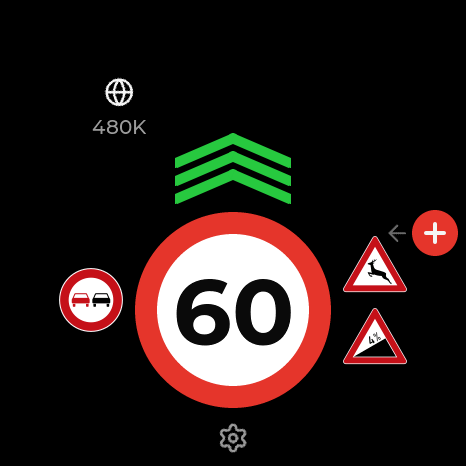
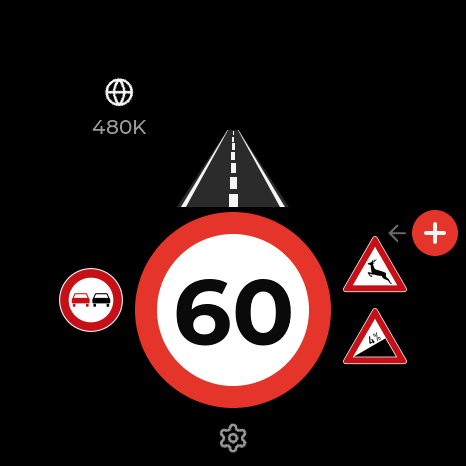
feat(ui): free-road picture replaces the green chevrons (Home + boot)
A straight road in perspective — dark-grey surface, white edge lines, a
dashed white centre line — now marks "clear ahead" on Home and is what
sweeps up the screen at power-on. New ui/widgets/road_view: drawn from
three concentric triangles (surface / white edge lines / surface, all from
one vanishing point, so no seams) plus one rectangle per dash, geometry
measured off the reference picture. Vector, so it is crisp at 112 px on
Home and 494 px in the boot sweep with no extra flash for a bitmap.

The wire/UiConfig flag names (directionArrows, bootAnimation) are
unchanged; only comments, docs and the test-app label were updated.
Chevrons widget removed; kClearGreen stays for the Melden lens and flashes.

Host suite 70 cases / 553 assertions green; firmware builds (image
0x1e2280, 37 % of the slot free). Not yet flashed — board was not on USB.

Changed region(s): [[0.3605, 0.2704, 0.6309, 0.4506]]

diff --git a/ui/widgets/road_view.cpp b/ui/widgets/road_view.cpp
@@ -1,0 +1,104 @@
+#include "ui/widgets/road_view.h"
+
+#include <algorithm>
+
+#include "ui/theme/tokens.h"
+#include "ui/widgets/widget_util.h"
+
+namespace ui {
+
+namespace {
+
+// Geometry, measured off the reference picture (115 x 80 units, the road's
+// bottom edge is the full width). Perspective: every edge is a ray from one
+// vanishing point `kApex` units above the top of the box, so the road, the edge
+// lines and the centre line are all concentric triangles that share the apex —
+// drawn as three stacked triangles, no seams. The box clips the tip off.
+constexpr int kBoxW   = 115;
+constexpr int kBoxH   = 80;
+constexpr int kApex10 = 96;      // vanishing point, 1/10 unit above the box top
+constexpr int kEdgeOuter = 930;  // permille of the bottom half-width: outer edge of the white edge line
+constexpr int kEdgeInner = 855;  //                                     inner edge of it
+
+// Centre-line dashes as {start, end} in 1/10 unit from the box top. They grow
+// toward the viewer; the last one runs off the bottom of the picture.
+struct Dash { int y0, y1; };
+constexpr Dash kDashes[] = {
+    {20, 60}, {80, 130}, {140, 210}, {230, 310}, {340, 450}, {490, 610}, {660, 800},
+};
+constexpr int kDashHalfPermille = 94;   // dash half-width as a share of the road's half-width there
+
+void tri(lv_layer_t* layer, uint32_t rgb, int ax, int ay, int bx, int by, int cx, int cy) {
+    lv_draw_triangle_dsc_t d;
+    lv_draw_triangle_dsc_init(&d);
+    d.bg_color = tok::col(rgb);
+    d.bg_opa = LV_OPA_COVER;
+    d.p[0].x = ax; d.p[0].y = ay;
+    d.p[1].x = bx; d.p[1].y = by;
+    d.p[2].x = cx; d.p[2].y = cy;
+    lv_draw_triangle(layer, &d);
+}
+
+}  // namespace
+
+int RoadView::height_for(int width) { return std::max(1, width * kBoxH / kBoxW); }
+
+RoadView::RoadView(lv_obj_t* parent, int width) : w_(width), h_(height_for(width)) {
+    root_ = make_layer(parent);
+    lv_obj_set_size(root_, w_, h_);
+    lv_obj_add_event_cb(root_, draw_cb, LV_EVENT_DRAW_MAIN, this);
+}
+
+void RoadView::set_visible(bool on) {
+    if (on) {
+        lv_obj_remove_flag(root_, LV_OBJ_FLAG_HIDDEN);
+    } else {
+        lv_obj_add_flag(root_, LV_OBJ_FLAG_HIDDEN);
+    }
+}
+
+void RoadView::draw_cb(lv_event_t* e) {
+    auto* self = static_cast<RoadView*>(lv_event_get_user_data(e));
+    lv_layer_t* layer = lv_event_get_layer(e);
+    lv_area_t box;
+    lv_obj_get_coords(lv_event_get_target_obj(e), &box);
+
+    const int w = self->w_;
+    const int h = self->h_;
+    const int cx = box.x1 + w / 2;
+    const int top = box.y1;
+    const int bot = box.y1 + h;               // bottom edge (exclusive)
+    const int apex_y = top - kApex10 * w / (kBoxW * 10);
+    const int half = w / 2;                   // bottom half-width
+
+    // Surface, white edge lines (outer triangle), then the surface again inside
+    // them — the box clips everything above `top`.
+    tri(layer, tok::kRoadSurface, cx, apex_y, cx - half, bot, cx + half, bot);
+    const int ho = half * kEdgeOuter / 1000;
+    tri(layer, tok::kRoadMark, cx, apex_y, cx - ho, bot, cx + ho, bot);
+    const int hi = half * kEdgeInner / 1000;
+    tri(layer, tok::kRoadSurface, cx, apex_y, cx - hi, bot, cx + hi, bot);
+
+    // Centre dashes: plain rectangles, each as wide as the road is at its middle.
+    for (const Dash& ds : kDashes) {
+        const int y0 = top + ds.y0 * w / (kBoxW * 10);
+        const int y1 = std::min(bot, top + ds.y1 * w / (kBoxW * 10));
+        if (y1 <= y0) continue;
+        const int mid10 = (ds.y0 + ds.y1) / 2;
+        const int road_hw = half * (mid10 + kApex10) / (kBoxH * 10 + kApex10);
+        const int dw = std::max(1, 2 * road_hw * kDashHalfPermille / 1000);
+        lv_area_t a;
+        a.x1 = cx - dw / 2;
+        a.x2 = a.x1 + dw - 1;
+        a.y1 = y0;
+        a.y2 = y1 - 1;
+        lv_draw_rect_dsc_t r;
+        lv_draw_rect_dsc_init(&r);
+        r.bg_color = tok::col(tok::kRoadMark);
+        r.bg_opa = LV_OPA_COVER;
+        r.radius = 0;
+        lv_draw_rect(layer, &r, &a);
+    }
+}
+
+}  // namespace ui

diff --git a/ui/screens/home_screen.cpp b/ui/screens/home_screen.cpp
@@ -2,7 +2,7 @@
 
 #include "ui/assets/icons/icons.h"
 #include "ui/theme/tokens.h"
-#include "ui/widgets/chevrons.h"
+#include "ui/widgets/road_view.h"
 #include "ui/widgets/plus_button.h"
 #include "ui/widgets/sign_column.h"
 #include "ui/widgets/speed_sign.h"
@@ -12,6 +12,7 @@
 namespace ui {
 
 namespace {
+constexpr int kRoadW = 112;    // "free road" picture, width at its bottom edge
 constexpr int kSideSign = 64;   // left/right context signs, same size both sides
 }
 
@@ -21,7 +22,7 @@ HomeScreen::HomeScreen(lv_obj_t* parent) {
     set_bg(root_, tok::kBg);
 
     badge_ = std::make_unique<StatusBadge>(root_);
-    chevrons_ = std::make_unique<Chevrons>(root_, 116, 60, 3);
+    road_ = std::make_unique<RoadView>(root_, kRoadW);
     sign_ = std::make_unique<SpeedSign>(root_, 196);
     left_ = std::make_unique<SignColumn>(root_, SignColumn::Side::Left, kSideSign, 3);
     right_ = std::make_unique<SignColumn>(root_, SignColumn::Side::Right, kSideSign, 3);
@@ -52,7 +53,7 @@ HomeScreen::HomeScreen(lv_obj_t* parent) {
     lv_obj_center(gimg);
 
     place_center(badge_->root(), 112, 92);
-    place_center(chevrons_->root(), 233, 168);
+    place_center(road_->root(), 233, 168);
     place_center(sign_->root(), 233, 310);
     plus_->set_center(435, 233);
     place_center(gear_, 233, 438);
@@ -83,7 +84,7 @@ void HomeScreen::set_state(const core::DisplayState& s) {
     badge_->set(s.internetConnected, ui_.peerCount ? s.networkPeers : 0);
 
     const bool hazard = s.hazardActive;
-    chevrons_->set_visible(s.directionArrows && !hazard && ui_.directionArrows);
+    road_->set_visible(s.directionArrows && !hazard && ui_.directionArrows);
 
     std::optional<int> shown = s.speedLimit;
     if (hazard && s.hazardSpeedLimit) shown = s.hazardSpeedLimit;
@@ -101,7 +102,7 @@ void HomeScreen::set_state(const core::DisplayState& s) {
     right_->set(s.rightSigns);
 
     place_center(sign_->root(), 233, 310);
-    place_center(chevrons_->root(), 233, shown ? 168 : 240);
+    place_center(road_->root(), 233, shown ? 168 : 240);
     // Columns flank the sign, vertically centred on it and pulled well inside the
     // round bezel.
     place_center(left_->root(), 91, 300);

diff --git a/tools/fake_app.py b/tools/fake_app.py
@@ -675,7 +675,7 @@ def run_gui(link, connect_name=ADV_NAME, connect_addr=None):
     ttk.Label(r, text="Tempo").pack(side="left")
     ttk.Spinbox(r, from_=0, to=200, increment=5, width=5, textvariable=v["speed"]).pack(side="left", padx=4)
     ttk.Checkbutton(r, text="mph", variable=v["mph"]).pack(side="left")
-    ttk.Checkbutton(b, text="Richtungspfeile", variable=v["arrows"]).pack(anchor="w")
+    ttk.Checkbutton(b, text="Freie Fahrt (Straßenbild)", variable=v["arrows"]).pack(anchor="w")
     ttk.Checkbutton(b, text="Internet verbunden", variable=v["online"]).pack(anchor="w")
     ttk.Checkbutton(b, text="Nachtmodus (dimmt Panel)", variable=v["night"]).pack(anchor="w")
     r = ttk.Frame(b); r.pack(fill="x")
@@ -934,7 +934,7 @@ def run_gui(link, connect_name=ADV_NAME, connect_addr=None):
 HELP = """\
 commands (state is remembered; every change re-sends the DisplayState):
   speed <n> [mph]            speed-limit sign value (+ 'mph' marks the sign unit)
-  arrows on|off              direction arrows
+  arrows on|off              free-road picture (direction arrows flag)
   ban on|off                 overtaking-ban sign (left column)
   signs L|R <name|code> ...   set a sign column  (names: %s)
   hazard <name|0-11> [dist] [splimit]   raise a hazard   |   hazard off

diff --git a/ui/screens/boot_screen.cpp b/ui/screens/boot_screen.cpp
@@ -1,7 +1,7 @@
 #include "ui/screens/boot_screen.h"
 
 #include "ui/theme/tokens.h"
-#include "ui/widgets/chevrons.h"
+#include "ui/widgets/road_view.h"
 #include "ui/widgets/widget_util.h"
 
 namespace ui {
@@ -17,9 +17,9 @@ BootScreen::BootScreen(lv_obj_t* parent, std::function<void()> on_done)
     set_bg(root_, tok::kBg);
     lv_obj_add_flag(root_, LV_OBJ_FLAG_CLICKABLE);   // swallow touches during boot
 
-    // Oversized on purpose — the chevrons just spill past the left/right edges.
-    chevrons_ = std::make_unique<Chevrons>(root_, 494, 210, 4);
-    lv_obj_t* c = chevrons_->root();
+    // Oversized on purpose — the road just spills past the left/right edges.
+    road_ = std::make_unique<RoadView>(root_, 494);
+    lv_obj_t* c = road_->root();
     lv_obj_update_layout(c);
     const int cw = lv_obj_get_width(c);
     const int chh = lv_obj_get_height(c);

diff --git a/ui/widgets/road_view.h b/ui/widgets/road_view.h
@@ -1,0 +1,30 @@
+// ui/widgets/road_view.h — the "free road ahead" picture: a straight road in
+// perspective (grey surface, white edge lines, a dashed centre line). Drawn from
+// vector shapes, not a bitmap, so the same widget is crisp on Home (~110 px) and
+// in the oversized boot sweep. Replaces the old green chevrons.
+#pragma once
+
+#include "lvgl.h"
+
+namespace ui {
+
+class RoadView {
+public:
+    // `width` is the road's width at its bottom edge; the height follows the
+    // picture's aspect ratio (see height_for()).
+    RoadView(lv_obj_t* parent, int width);
+
+    void set_visible(bool on);
+    lv_obj_t* root() { return root_; }
+
+    static int height_for(int width);
+
+private:
+    static void draw_cb(lv_event_t* e);
+
+    lv_obj_t* root_ = nullptr;
+    int       w_ = 0;
+    int       h_ = 0;
+};
+
+}  // namespace ui

diff --git a/ui/theme/tokens.h b/ui/theme/tokens.h
@@ -23,7 +23,12 @@ inline constexpr uint32_t kTextFaint    = 0x5A5A5A;
 inline constexpr uint32_t kHairline     = 0x3A3A3A;  // divider lines
 
 inline constexpr uint32_t kWarnRed      = 0xE5352B;  // sign ring, bans, hazard accents
-inline constexpr uint32_t kClearGreen   = 0x27C93F;  // direction chevrons only
+inline constexpr uint32_t kClearGreen   = 0x27C93F;  // "clear" accents (Melden lens, send flash, pairing ok)
+
+// The free-road picture (Home + boot): grey surface, white markings. Deliberately
+// not green/red — it is a picture of a road, not a status colour.
+inline constexpr uint32_t kRoadSurface  = 0x2B2B2B;
+inline constexpr uint32_t kRoadMark     = 0xF5F5F5;
 
 inline constexpr uint32_t kSignFace     = 0xFFFFFF;  // speed-sign disc
 inline constexpr uint32_t kSignDigits   = 0x0A0A0A;

diff --git a/ui/screens/home_screen.h b/ui/screens/home_screen.h
@@ -1,4 +1,4 @@
-// ui/screens/home_screen.h — the base screen: status badge, chevrons, speed sign,
+// ui/screens/home_screen.h — the base screen: status badge, free-road picture, speed sign,
 // left/right context-sign columns, "+" button, settings gear. Layout: docs/ui-spec.md 5.1.
 #pragma once
 
@@ -12,7 +12,7 @@
 namespace ui {
 
 class StatusBadge;
-class Chevrons;
+class RoadView;
 class SpeedSign;
 class SignColumn;
 class PlusButton;
@@ -36,7 +36,7 @@ private:
     lv_obj_t* root_ = nullptr;
 
     std::unique_ptr<StatusBadge> badge_;
-    std::unique_ptr<Chevrons>    chevrons_;
+    std::unique_ptr<RoadView>    road_;
     std::unique_ptr<SpeedSign>   sign_;
     std::unique_ptr<SignColumn>  left_;
     std::unique_ptr<SignColumn>  right_;

diff --git a/core/model/ui_config.h b/core/model/ui_config.h
@@ -20,11 +20,11 @@ struct UiConfig {
 
     // Home elements.
     bool signColumns     = true;   // the left/right StVO sign columns
-    bool directionArrows = true;   // the green "free road" chevrons
+    bool directionArrows = true;   // the "free road" picture
     bool peerCount       = true;   // the "480K" under the globe
     bool gearButton      = true;   // the Settings gear (independent of settingsPage)
     bool connectQr       = true;   // the QR on "Handy verbinden"
-    bool bootAnimation   = true;   // the chevron sweep at power-on
+    bool bootAnimation   = true;   // the road sweep at power-on
 
     // ── wire form: bit n set == feature ON (so 0xFFFF… == all on) ───────────
     enum Bit : uint32_t {

diff --git a/ui/screens/boot_screen.h b/ui/screens/boot_screen.h
@@ -1,5 +1,5 @@
-// ui/screens/boot_screen.h — startup splash: a big stack of "clear ahead"
-// chevrons sweeps up from below the screen and off the top, once.
+// ui/screens/boot_screen.h — startup splash: the oversized free-road picture
+// sweeps up from below the screen and off the top, once.
 #pragma once
 
 #include <functional>
@@ -9,7 +9,7 @@
 
 namespace ui {
 
-class Chevrons;
+class RoadView;
 
 class BootScreen {
 public:
@@ -22,7 +22,7 @@ public:
 
 private:
     lv_obj_t*                 root_ = nullptr;
-    std::unique_ptr<Chevrons> chevrons_;
+    std::unique_ptr<RoadView> road_;
     std::function<void()>     done_;
 };
 

diff --git a/core/model/display_state.h b/core/model/display_state.h
@@ -22,7 +22,7 @@ struct DisplayState {
     // Speed-limit sign (a SIGN value, shown unchanged in speedLimitUnit)
     std::optional<int> speedLimit;       // absent => no sign
     SpeedUnit          speedLimitUnit = SpeedUnit::Kmh;
-    bool               directionArrows = false;   // green "clear" chevrons
+    bool               directionArrows = false;   // the "free road" picture
 
     // Context signs the app wants painted beside the speed sign, as VzNr codes.
     // Convention: left = prohibitions (e.g. 27600 overtaking ban), right = danger

diff --git a/docs/ui-spec.md b/docs/ui-spec.md
@@ -16,7 +16,7 @@ regardless of theme.
 **Assets:** traffic signs are the official German StVO SVGs (Wikimedia Commons, public domain),
 rasterised at build time to LVGL image arrays — see `tools/signs/` + `tools/gen_assets.sh`, catalog
 in `ui/assets/signs/`. UI glyphs (globe, gear, arrow, check …) are Lucide icons (ISC), A8, recoloured
-at the call site. The speed-limit sign and the "clear" chevrons stay drawn (dynamic). The "+" plus
+at the call site. The speed-limit sign and the free-road picture stay drawn (dynamic). The "+" plus
 mark is drawn.
 
 ---
@@ -26,14 +26,14 @@ mark is drawn.
 | Element | Centre | Size | Notes |
 |---|---|---|---|
 | Status badge | (112, 92) | globe 30 | globe on top, abbreviated `networkPeers` ("480K", 14 px muted) **stacked underneath** it. |
-| Direction chevrons | (233, 150) *(168 in the sketch; raised to clear the sign)* | block 130 × 100 | 3 stacked chevrons, bright green, only when `directionArrows` and no hazard. |
+| Free-road picture | (233, 168) | 112 × 78 | a straight road in perspective — dark-grey surface, white edge lines, dashed white centre line (`ui/widgets/road_view`, drawn from triangles + rects, not a bitmap). Shown only when `directionArrows` (the wire flag keeps its name) is set and no hazard is active. Replaced the green chevrons. |
 | Speed-limit sign | (233, 310) | Ø 196 | white disc, ~22 px red ring, ~92 px bold digits. Drawn (border + label), not a bitmap. Fades out when `speedLimit` absent. |
 | Left sign column | centred on the speed sign at x ≈ 100 | signs ~48 px | `DisplayState.leftSigns` (VzNr codes), by convention prohibitions (276 = Überholverbot …). Newest 3; if the app sends 4 the oldest falls off the top. The box shrinks to the count so a single sign sits level with the speed sign, not slid into the round bezel. |
 | Right sign column | centred on the speed sign at x ≈ 366 | signs ~48 px, **same size as left** | `DisplayState.rightSigns`, by convention danger signs (142-10 Wildwechsel, 110-4 Steigung …). Newest 3, same overflow rule as the left column. |
 | "+" button | (435, 233) | Ø 46 | red circle, white plus, hard against the right bezel. Tap → Melden. A ~45 %-opacity "←" swipe hint fades after a few seconds. |
 | Settings gear | (233, 432) | 32 | **tap** → Settings. It is the only way in (Settings is not a swipe tile), so a stray vertical swipe can't land there. |
 
-When `speedLimit` is absent: the sign fades out and the chevrons move to the vertical centre (233).
+When `speedLimit` is absent: the sign fades out and the road moves to the vertical centre (240).
 While a hazard overlay is up, both sign columns hide so the hazard icon / distance bar own the flanks.
 
 ## 5.2 No internet
@@ -58,7 +58,7 @@ navigation still works.
 | Warn icon | left of centre, above the sign (180, 150), ~84 px | the **per-category** visual from `category_visual()` — an StVO sign where one fits (Stau, Glätte, Rotlicht …), else a category glyph (camera, radar, caravan, wrench, car-crash …), recoloured red. **Blinks** 100 % ↔ 35 % at 1 Hz, ease-in-out. Never a one-size-fits-all "!". |
 | Distance bar | vertical, **just right of the icon** (x ≈ 244), above the sign | fills from the bottom as the distance shrinks; "600m" label beside it. The sign columns hide while it is up. |
 | Speed sign | as Home | shows `hazardSpeedLimit` if set, else `speedLimit`; soft red glow ring on change; number crossfades ~180 ms. |
-| Chevrons | — | hidden while the hazard is active. |
+| Free-road picture | — | hidden while the hazard is active. |
 
 Nothing blinks faster than 2 Hz. If the hazard's `hazardType` is disabled in `WarningFilter`, the
 overlay is suppressed entirely.
@@ -97,8 +97,8 @@ A **rotary selector** that uses the round face:
 
 ## 5.0 Boot splash
 
-On startup, an oversized stack of four "clear ahead" chevrons (wider than the screen — it spills
-past the left/right edges) sweeps up from below the display and off the top over ~1.3 s, then the
+On startup, an oversized free-road picture (the same `RoadView` as on Home, 494 px wide — wider
+than the screen, so it spills past the left/right edges) sweeps up from below the display and off the top over ~1.3 s, then the
 Home UI appears. Plays once. Touches are swallowed while it runs.
 
 ## 5.6 Settings — M3 (reworked M9)

diff --git a/docs/testing.md b/docs/testing.md
@@ -50,7 +50,7 @@ so the console keeps a running picture. Events (`<< event …`) and Settings not
 
 ```
 speed 30 [mph]                 speed-limit sign value
-arrows on|off                  direction chevrons
+arrows on|off                  free-road picture above the sign
 ban on|off                     overtaking-ban sign (left column)
 signs L|R <name|code> …        set a sign column   (names: ban deer slippery grade kids …)
 hazard mobilecam 250 50        raise a hazard: <name|0-11> [dist_m] [speedLimit]
@@ -81,8 +81,8 @@ printf 'speed 50\nsleep 2\nhazard ice 300\nsleep 6\nreconnect\nhazard accident 2
 |---|---|---|
 | Speed sign | `speed 30`, `speed 80 mph`, `speed 120` | big number, unit as sent; 3 digits still clear the ring |
 | Sign columns | GUI *Verkehrszeichen* ＋ / − (the tool routes each sign L/R by type and replaces same-category ones); REPL `signs L ban` / `signs R deer` | round prohibition signs left, triangular Gefahrzeichen right, centred, not clipped |
-| Direction chevrons | `arrows on` (no hazard) | green chevrons above the sign |
-| Hazard overlay | `hazard fixedcam 500` | per-type icon, distance bar, blink; chevrons hidden |
+| Free-road picture | `arrows on` (no hazard) | grey road with white edge lines + dashed centre line above the sign |
+| Hazard overlay | `hazard fixedcam 500` | per-type icon, distance bar, blink; road picture hidden |
 | Hazard → sign | `hazard mobilecam 300 50` | speed sign switches to the hazard limit (50) |
 | Unknown hazard | `hazard 11 400` | generic “!” icon, no crash |
 | Confirm prompt | `confirm 12` | scrim + Ja/Nein, ring counts down, tileview locked |
